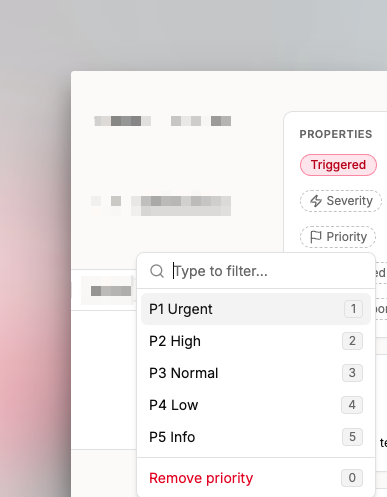
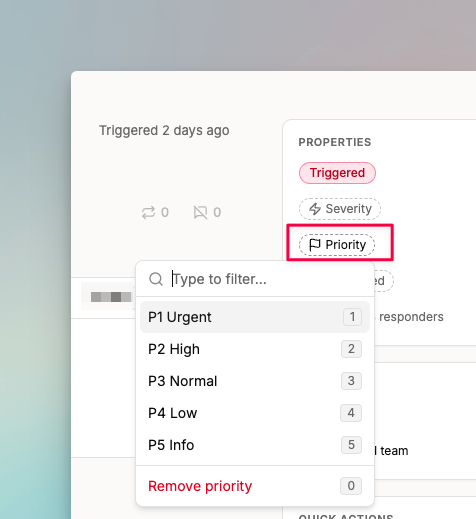
docs: update images for priority and severity

diff --git a/incidents/priority-and-severity.md b/incidents/priority-and-severity.md
@@ -34,17 +34,17 @@ Once you set priority and severity on an incident, Spike remembers them for futu
 
 ## Setting priority and severity
 
-### From the incidents list
+### From the dashboard
 
-Open **Incidents** from the sidebar. Hover over an incident to reveal the **Priority** and **Severity** options inline.
+Select one or more incidents. The priority, severity, and mute options appear at the top of the list.
 
-<figure><img src="../.gitbook/assets/incidents/incidents-priority-severity-list-1.png" alt="Set priority and severity from the incidents list"><figcaption><p>Hover over an incident to set priority and severity inline.</p></figcaption></figure>
+<figure><img src="../.gitbook/assets/incidents/incidents-priority-severity-list-1.png" alt="Set priority on multiple incidents from the dashboard"><figcaption><p>Select incidents from the dashboard to set priority and severity in bulk.</p></figcaption></figure>
 
 ### From the incident page
 
-Open any incident and find **Priority** and **Severity** under the **Properties** section.
+Open any incident to find the priority and severity options on the incident detail page.
 
-<figure><img src="../.gitbook/assets/incidents/incidents-priority-severity-detail-1.png" alt="Set priority and severity from the incident page"><figcaption><p>Set priority and severity from the Properties section on the incident page.</p></figcaption></figure>
+<figure><img src="../.gitbook/assets/incidents/incidents-priority-severity-detail-1.png" alt="Set priority from the incident page"><figcaption><p>Set priority and severity directly from the incident page.</p></figcaption></figure>
 
 ### From integrations
 